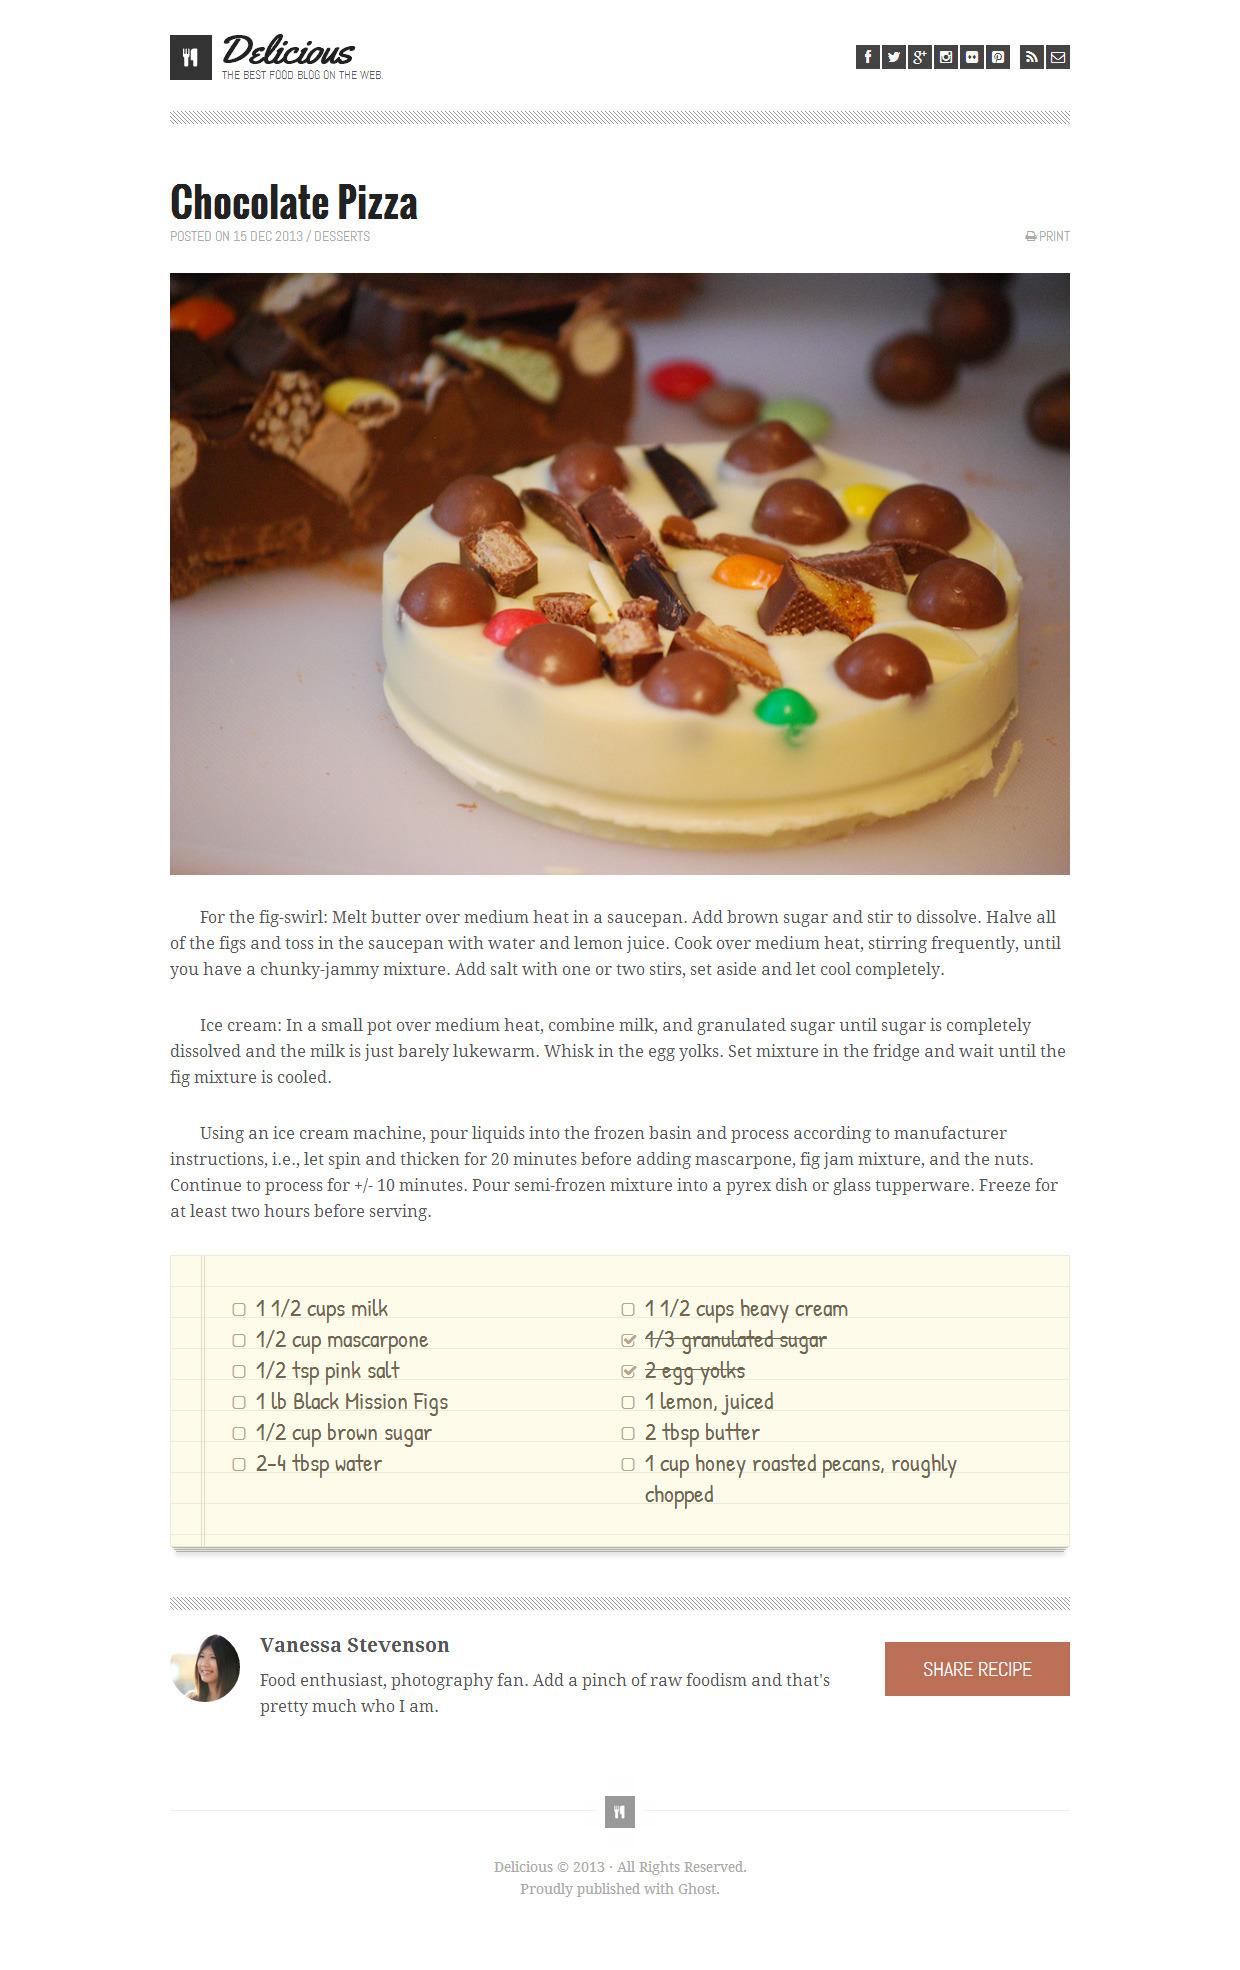
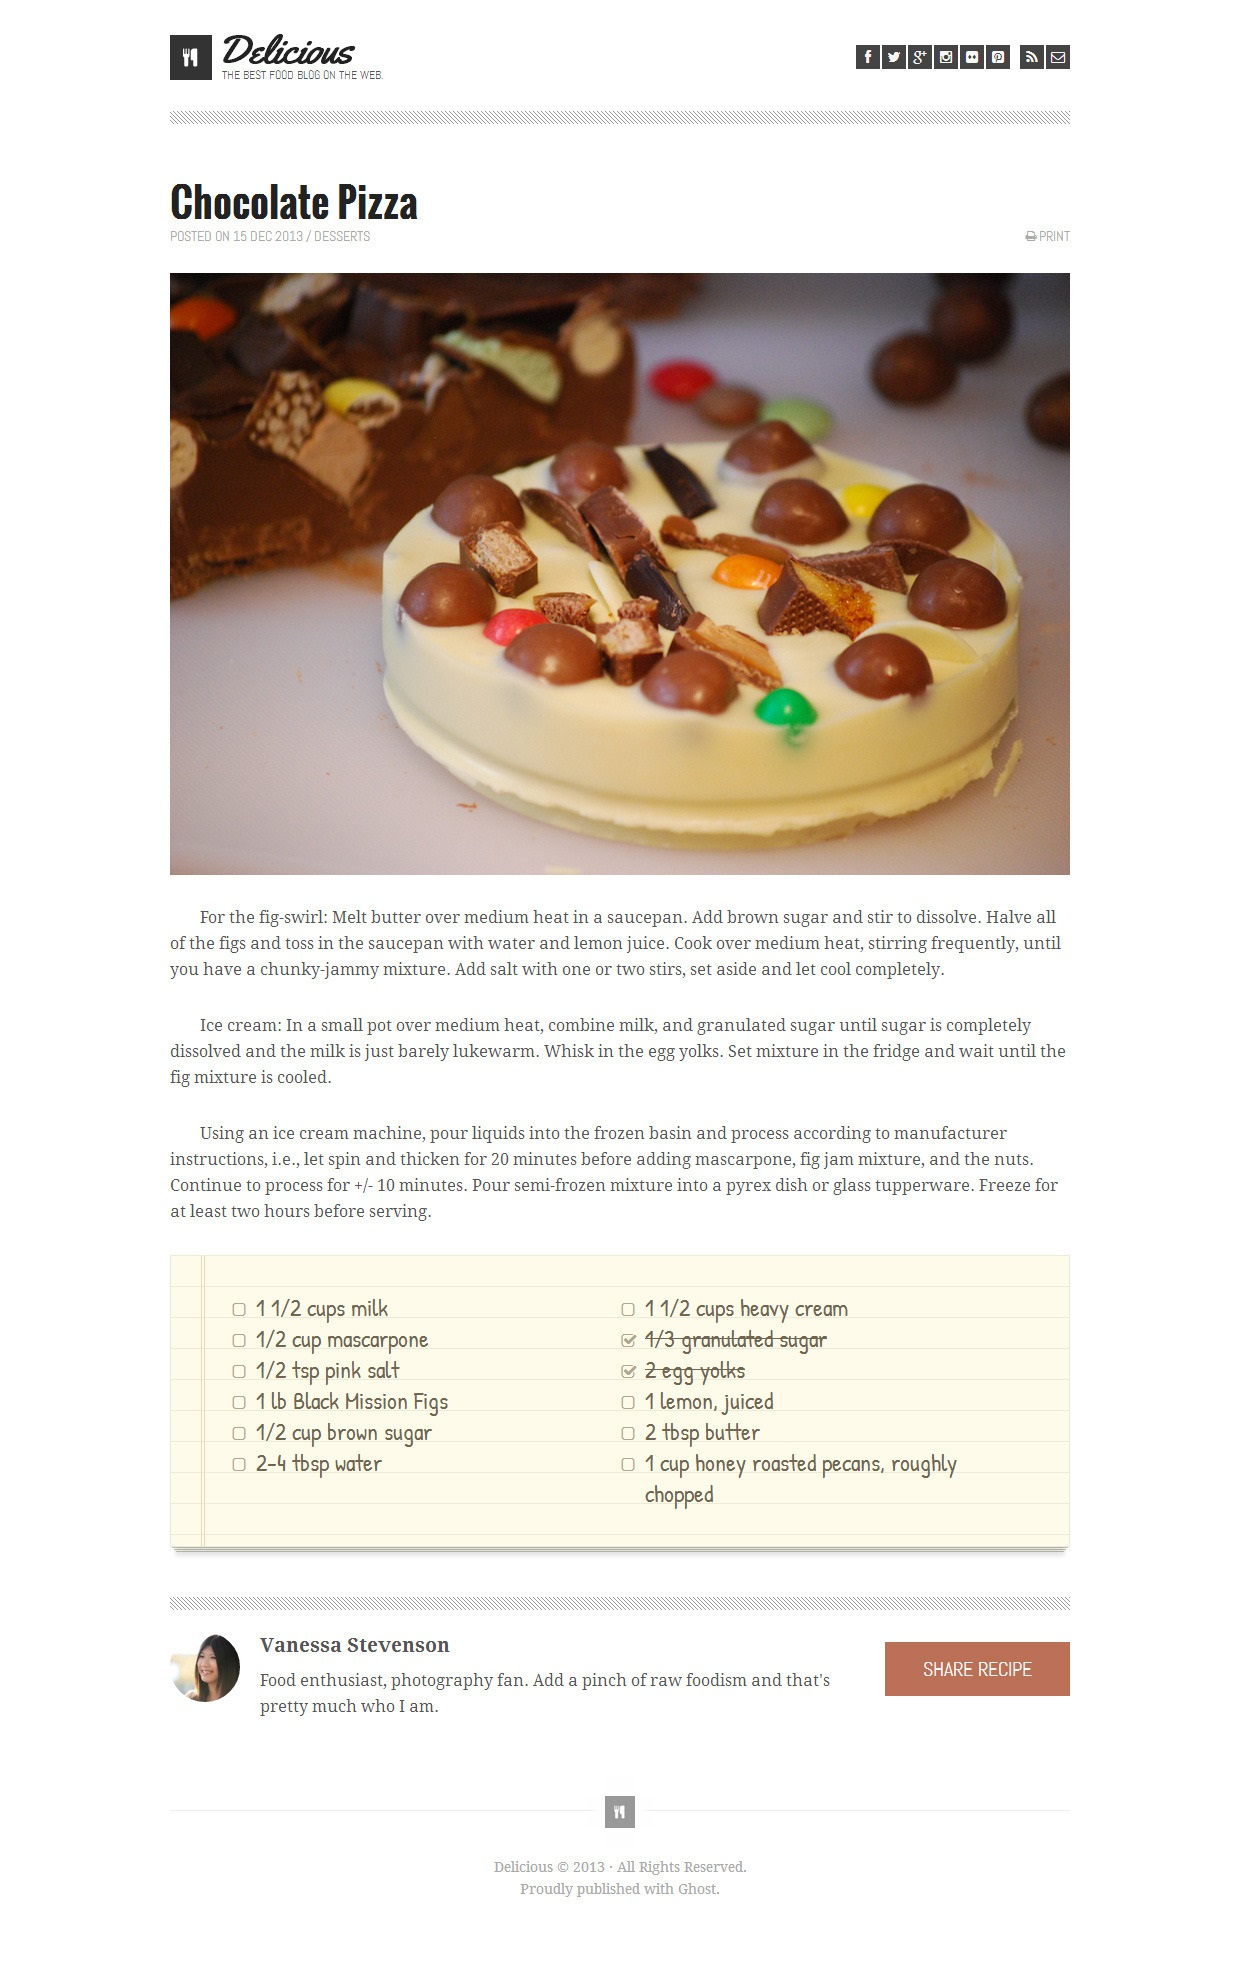
finished it!

diff --git a/index.html b/index.html
@@ -19,6 +19,7 @@
       </section>
 
       <section class="social-icons">
+
         <img src="images/fb-icon.png">
         <img src="images/twit-icon.png">
         <img src="images/gp-icon.png">
@@ -27,8 +28,8 @@
         <img src="images/pint-icon.png">
         <img src="images/rss-icon.png">
         <img src="images/mail-icon.png">
-      </section>
 
+      </section>
 
     </header>
 
@@ -60,28 +61,47 @@
       </section>
 
       <section class="ingredients">
+        <ul class="column">
+          <li>1 1/2 cups milk</li>
+          <li>1/2 cup mascarpone</li>
+          <li>1/2 tsp pink salt</li>
+          <li>1 lb Black Mission Figs</li>
+          <li>1/2 cup brown sugar</li>
+          <li>2-4 tbsp water</li>
+        </ul>
 
+        <ul class="column">
+          <li>1 1/2 cups heavy cream</li>
+          <li class="strike">1/3 granulated sugar</li>
+          <li class="strike">2 egg yolks</li>
+          <li>1 lemon, juiced</li>
+          <li>2 tbsp butter</li>
+          <li>1 cup honey roasted pecans, roughly
+          	  <br>
+              chopped</li>
+        </ul>
       </section>
+
+      <hr class="divide">
 
       <section class="author">
         <img src="images/van-pic.png">
-        <h2>Vanessa Stevenson</h2>
-        <p> whatever</p>
-
+        <div>
+          <h2>Vanessa Stevenson</h2>
+          <p>Food enthusiast, photography fan. Add a pinch of raw foodism and that's pretty much who I am.</p>
+      </div>
+        <button>SHARE RECIPE</button>
       </section>
 
-      <footer> footer stuff </footer>
+      <footer>
+        <img src="images/small-logo.png">
 
-
-
-
-
-
+        <p>Delicious &copy; 2013 &#5867; All Rights Reserved.</p>
+        <p>Proudly published with Ghost.</p>
+      </footer>
 
     </main>
 
-
   </body>
-
 
 </html>

diff --git a/style.css b/style.css
@@ -1,3 +1,7 @@
+body {
+
+}
+
 .logo_text {
   font-family: 'Pacifico', cursive;
   font-style: italic;
@@ -9,15 +13,13 @@
 
 .choczza {
   font-family: 'Anton', sans-serif;
-  font-size: 30px;
+  font-size: 32px;
   margin-bottom: 5px;
 }
 
-
-
 .divide {
-  height: 6px;
-	background: url("http://ibrahimjabbari.com/english/images/hr-11.png") repeat-x 0 0;
+  height: 13px;
+	background: url("images/divide.png") repeat-x 0 0;
   border: 0;
 }
 
@@ -91,14 +93,85 @@ main {
 }
 
 .text p {
-  font-size: 18px;
-  color: #909594;
+  font-size: 19px;
+  color: #777;
   text-indent: 40px;
   margin-bottom: 20px;
 }
 
 .ingredients {
+  font-family: "comic sans", cursive;
+  color: #777;
   width: 900px;
   height: 305px;
   background-image:url("images/list-bg.png");
 }
+
+li {
+  list-style-image: url("images/unchecked.png");
+}
+
+.column {
+  vertical-align: top;
+  display: inline-block;
+  margin-top: 37px;
+  margin-left: 90px;
+  line-height: 31px;
+  height: 305px;
+  width: 300px;
+}
+
+.strike {
+  text-decoration: line-through;
+  list-style-image: url("images/checked.png");
+}
+
+.author img {
+  margin: 20px;
+  float: left;
+}
+
+.author div {
+  display: inline-block;
+  width: 600px;
+}
+
+.author h2 {
+  font-size: 20px;
+  color: #777;
+  margin-top: 20px;
+  margin-bottom: 10px;
+  font-weight: bold;
+}
+
+.author p {
+  font-size: 19px;
+  color: #777;
+}
+
+.author button {
+  font-family: 'Abel', sans-serif;
+  font-size: 16px;
+  border: none;
+  padding: 15px 30px;
+  color: #fff;
+  background-color: #B97456;
+  float: right;
+  margin-top: 40px;
+}
+
+footer {
+  clear: both;
+  text-align: center;
+  font-size: 13px;
+  color: #999;
+  padding: 40px;
+}
+
+footer img {
+  margin: 30px;
+}
+
+/* * {
+  outline: dashed 1px orange;
+} */
